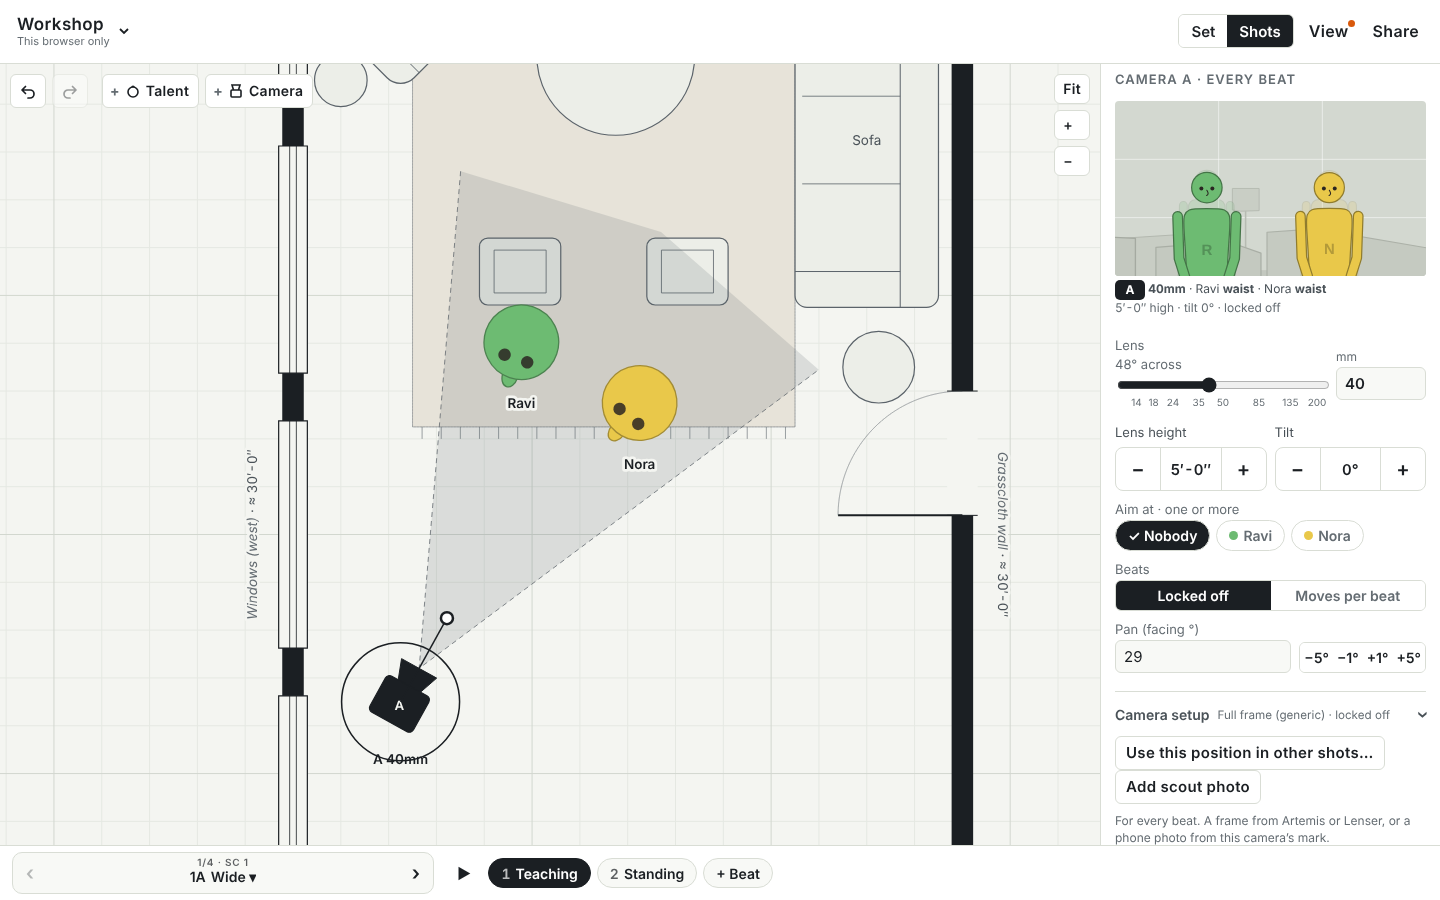
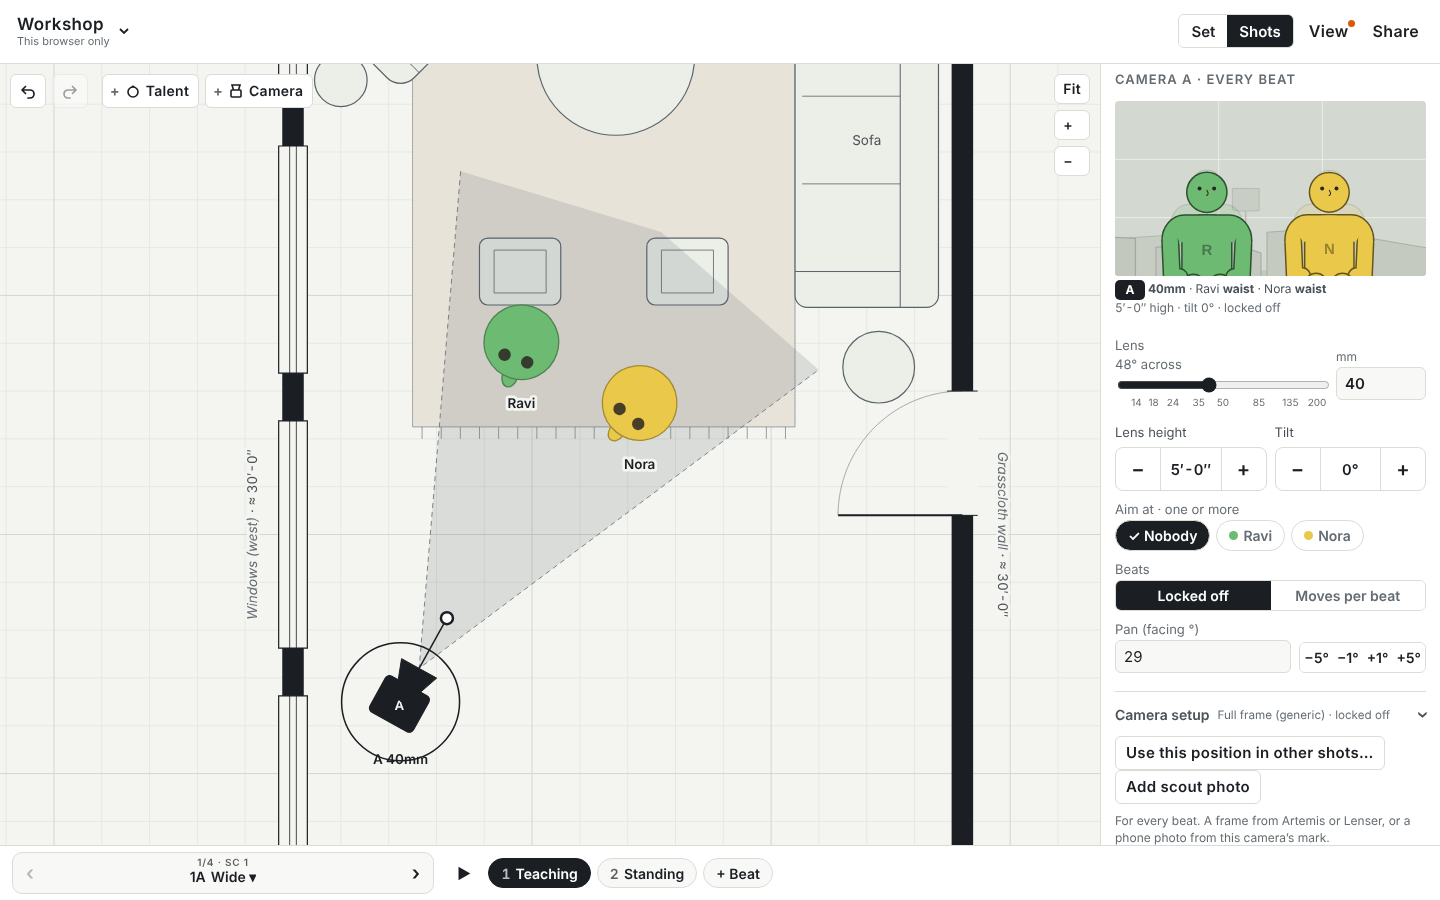
Pictogram figures only; social preview image
The rounded figure style is removed, so every plan draws the pictograms from the
AIGA/DOT symbol signs. README screenshots retaken. Adds docs/social-preview.png
(1280x640) for GitHub's social preview. The standalone reload test now waits
for the browser to commit storage.

Changed region(s): [[0.7812, 0.1867, 0.9688, 0.3111]]

diff --git a/index.html b/index.html
@@ -549,7 +549,7 @@ function normalize(sc){
     if(o.sq!==undefined){o.sq=num(o.sq,1);if(!SQUEEZES.includes(o.sq))delete o.sq}};
   sc.rig.forEach((c,i)=>{c.id=freshId(c.id);c.name=String(c.name||'ABCDEFGHIJKLMNOPQRSTUVWXYZ'[i]||'Cam').slice(0,40);c.color=safeColor(c.color,CAM_COLORS[i%CAM_COLORS.length]);fmtOK(c)});
   const arOK=o=>{if(o.ar===undefined)return;const v=typeof o.ar==='number'?o.ar.toFixed(2):String(o.ar);if(Object.hasOwn(ASPECTS,v))o.ar=v;else delete o.ar};
-  arOK(sc);sc.shots.forEach(arOK);if(sc.axisOn!==undefined)sc.axisOn=!!sc.axisOn;if(sc.fig!==undefined&&sc.fig!=='picto')delete sc.fig;
+  arOK(sc);sc.shots.forEach(arOK);if(sc.axisOn!==undefined)sc.axisOn=!!sc.axisOn;sc.fig='picto';
   sc.shots.forEach(x=>{if(x.axis===undefined)return;const v=String(x.axis);if(v==='off')x.axis='off';else{const pr=v.split('|');if(pr.length===2&&pr.every(y=>ID_OK.test(y))&&pr[0]!==pr[1])x.axis=v;else delete x.axis}});
   // v18–v20 kept the aspect ratio on each camera: the commonest becomes the scene's; a shot that differs keeps its own
   {const legacy=sc.items.filter(i=>i.kind==='cam'&&i.ar!==undefined);legacy.forEach(arOK);const ok=legacy.filter(i=>i.ar!==undefined);
@@ -937,7 +937,7 @@ function frameInfo(sc,cam,t,Wp,opt={}){
     const qd=Math.max(.01,Math.hypot(q.x-p.x,q.y-p.y)),du=[(q.x-p.x)/qd,(q.y-p.y)/qd],ru=[-du[1],du[0]];
     const fv=dv(q.r),front=-(fv[0]*du[0]+fv[1]*du[1]),side=fv[0]*ru[0]+fv[1]*ru[1],phi=Math.atan2(side,front),c=Math.abs(Math.cos(phi)),sn=Math.sin(phi);
     const ps=POSTURE[q.ps]?q.ps:'stand',P=POSTURE[ps],C=crownOf(ps),E=eyeOf(ps),seated=!!P.seat;
-    const col=o.c.color||'#888',picto=sc.fig==='picto',dk=shade(col,picto?.42:.62),ow=Math.max(picto?1.3:1.1,k*(picto?.034:.028));
+    const col=o.c.color||'#888',picto=true,dk=shade(col,picto?.42:.62),ow=Math.max(picto?1.3:1.1,k*(picto?.034:.028));
     let fb=col,fh=col;const lit=!ghost&&lightingOn(sc),terms=lit?lightTerms(sc,q,p).map(x=>({...x,I:x.I*expo})):[];if(lit&&!ghost&&!terms.some(x=>x.I>.06))o.dark=true;
     if(lit){const b1=`${gid}b${gi}`,h1=`${gid}h${gi++}`;defs+=gradDef(b1,terms,col,cx-.8*k,cx+.8*k)+gradDef(h1,terms,col,cx-.33*k,cx+.33*k);fb=`url(#${b1})`;fh=`url(#${h1})`}
     // person-local feet: r = to their right, f = forward. Screen x and nearness to camera follow from which way they face.
@@ -947,7 +947,7 @@ function frameInfo(sc,cam,t,Wp,opt={}){
     if(seated){const sy=Y(P.seat),gy=Y(0),sx=.62*k;
       g+=`<g stroke="#8b9096" stroke-width="${Math.max(1.2,.07*k)}" stroke-linecap="round" fill="none"><path d="M${cx-sx*.75} ${sy}L${cx-sx*.95} ${gy}M${cx+sx*.75} ${sy}L${cx+sx*.95} ${gy}M${cx-sx*.25} ${sy}L${cx-sx*.3} ${gy}M${cx+sx*.25} ${sy}L${cx+sx*.3} ${gy}"/>${P.foot?`<path d="M${cx-sx*.88} ${Y(P.foot)}H${cx+sx*.88}"/>`:''}</g><ellipse cx="${cx}" cy="${sy}" rx="${sx}" ry="${Math.max(2,.1*k)}" fill="#a3a8ad"/>`}
     // each limb is one group of capsules: outlined together, then filled together, so joints don't show
-    // two styles: the default rounded figure, outlined; or the DOT/AIGA pictogram (1974, public domain): flat parts, square-ended legs,
+    // the DOT/AIGA pictogram (1974, public domain): flat parts, square-ended legs,
     // arms hanging clear of the body from a broad shoulder yoke, a gap between the legs and below the head
     const groups={};const limb=(key,pts,w,lc)=>{(groups[key]=groups[key]||[]).push({pts,w,lc,arm:key.startsWith('arm')})};
     const sw2=ps==='walk'?Math.sin(q.wk??Math.PI/2):0,leg=22*RAD*sw2,arm=-20*RAD*sw2;
@@ -1973,10 +1973,9 @@ function layersSheet(){
   h+=`</div><h3>Layers</h3><div class="list">`;
   for(const L of LAYERS){const n=inShot(sc).filter(i=>layerOf(i)===L.id).length,st=ls[L.id]||{};
     h+=`<div class="item lyrow" style="cursor:default"><span class="${st.hidden?'mut':''}">${L.name}<span class="sub" style="margin-left:6px">${n}${st.hidden?' · hidden':st.locked?' · locked':''}</span></span><span style="margin-left:auto;display:flex;gap:4px;align-items:center"><button class="btn ghost lysel" data-ly="${L.id}" data-op="sel" ${n&&!st.hidden&&!st.locked?'':'disabled'}>Select</button><button class="btn icobtn" data-ly="${L.id}" data-op="hide" aria-pressed="${!!st.hidden}" aria-label="${st.hidden?'Show':'Hide'} ${L.name}" title="${st.hidden?'Show':'Hide'}">${st.hidden?EYEOFF:EYE}</button><button class="btn icobtn" data-ly="${L.id}" data-op="lock" aria-pressed="${!!st.locked}" aria-label="${st.locked?'Unlock':'Lock'} ${L.name}" title="${st.locked?'Unlock':'Lock'}">${LOCK(st.locked)}</button></span></div>`}
-  h+=`</div><h3>Figures</h3><div class="list"><div class="item" style="cursor:default"><div class="seg" style="flex:1"><button data-fig="round" aria-pressed="${sc.fig!=='picto'}">Rounded</button><button data-fig="picto" aria-pressed="${sc.fig==='picto'}">Pictogram</button></div></div></div>`;
+  h+=`</div>`;
   h+=`<p class="hint" style="padding:6px 16px 0">Select picks up a whole layer to move or turn as one piece. A locked layer can’t be grabbed, so you can work on top of it.</p>`;
   openSheet(h,e=>{const vw=e.target.closest('[data-vw]');if(vw){const k=vw.dataset.vw.slice(0,-1),on=vw.dataset.vw.endsWith('1');used('view.'+k);if(k==='frames'){if(S.showFrames!==on)$('#framesBtn').click()}else{const key={dims:'dims',snap:'snap',all:'allBeats',allshots:'allShots'}[k];S[key]=on}renderAll();layersSheet();return}
-    const fg=e.target.closest('[data-fig]');if(fg){pushHist();if(fg.dataset.fig==='picto')sc.fig='picto';else delete sc.fig;renderAll();save();layersSheet();return}
     const ax=e.target.closest('[data-axon],[data-axshot]');if(ax){pushHist();if(ax.dataset.axon)sc.axisOn=ax.dataset.axon==='1';else{const sh=shotOf(sc);if(ax.dataset.axshot==='auto')delete sh.axis;else sh.axis=ax.dataset.axshot}renderAll();save();layersSheet();return}
     const b=e.target.closest('[data-op]');if(!b||b.disabled)return;const ly=b.dataset.ly,op=b.dataset.op;
     if(op==='sel'){{const f=inShot(sc).find(i=>layerOf(i)===ly);if(f&&spaceLocked(f))setSpace(S.space==='set'?'shots':'set',true)}S.multi=inShot(sc).filter(i=>layerOf(i)===ly).map(i=>i.id);S.sel=null;S.sceneInsp=false;closeSheet();renderAll();return}

diff --git a/tests/test_r7.py b/tests/test_r7.py
@@ -182,22 +182,16 @@ def test_phone_long_warning_leaves_controls_reachable(open_app):
     assert b['height'] >= 120 and b['y'] + 120 <= 852, b
 
 
-def test_pictogram_figures_switch(open_app):
-    sc = scene()
-    sc['fig'] = 'picto'
-    app = open_app({'room': sc})
-    app.go(shot='s1')
-    svg = app.js("()=>{const P=window.__shotplans,sc=P.cur();return P.frameInfo(sc,sc.items.find(i=>i.id==='camA'),0,320).svg}")
-    rnd = app.js("()=>{const P=window.__shotplans,sc=P.cur();const f=sc.fig;delete sc.fig;const v=P.frameInfo(sc,sc.items.find(i=>i.id==='camA'),0,320).svg;sc.fig=f;return v}")
-    assert svg != rnd
+def test_pictogram_is_the_only_figure_style(open_app):
+    """the rounded style is gone: every plan draws pictograms, whatever it stored"""
+    sc = facing_scene()
+    sc['fig'] = 'round'
+    app = open_app({'s': sc})
+    assert app.scene()['fig'] == 'picto'
     app.page.click('#layersBtn')
-    app.page.click('#sheet [data-fig="round"]')
     app.wait(150)
-    assert 'fig' not in app.scene()
-    bad = scene()
-    bad['fig'] = '<x>'
-    app2 = open_app({'room': bad})
-    assert 'fig' not in app2.scene()
+    assert app.page.locator('[data-fig]').count() == 0
+    assert not app.errors, app.errors
 
 
 def test_pdf_with_axis_curve_and_pictograms(open_app):

diff --git a/tests/test_standalone.py b/tests/test_standalone.py
@@ -29,8 +29,8 @@ def test_runs_without_the_host(browser):
 def test_saves_in_the_browser_and_survives_a_reload(browser):
     ctx, page, errors = open_plain(browser, {'workshop_doc': json.loads(json.dumps(sp.WS))})
     page.evaluate("()=>{const P=window.__shotplans,sc=P.cur();sc.name='Renamed here';P.save(0)}")
-    page.wait_for_timeout(500)
-    page.evaluate("()=>sessionStorage.setItem('seeded','1')")
+    page.wait_for_function("()=>(localStorage.getItem('shotplans:workshop_doc')||'').includes('Renamed here')", timeout=5000)
+    page.wait_for_timeout(1500)  # Chromium commits localStorage to disk in batches; a reload straight after a write can read the old value
     page.reload()
     page.wait_for_timeout(900)
     assert page.evaluate("()=>window.__shotplans.cur().name") == 'Renamed here'

diff --git a/docs/FORMAT.md b/docs/FORMAT.md
@@ -8,7 +8,7 @@ The app repairs bad data on load without saying so, so if you generate plans wit
   - Write numbers as numbers, not strings.
   - Ids must match `[A-Za-z0-9_-]{1,40}` and be unique across the whole document (groups, shots, beats, cast, rig and items share one space). Colours are `#rrggbb`. Anything else is replaced on load.
   - Stamp `updatedAt` with the current time in ms. Also write `schemaVersion: 2`.
-- **Production** (one document). It holds `name`, `sensor` (`ff` or `s35`, used only for cameras with no body), `ar` (aspect for every shot: native, 1.33, 1.66, 1.78, 1.85, 2.00 or 2.39; default 1.78), `axisOn` (show the 180° line), `fig` (`picto` for pictogram figures; absent for rounded), `notes`, `estimated`, `layerState` (per layer `hidden`, `locked`; layer ids arch, furn, light, cast, note), `cast` (`id`, `name`, `color`), `rig` (the location's cameras: `id`, `name`, `color`, and optional `body`, `mode`, `sq`), `locs` (the location library: `id`, `name`, `notes`), `groups` (the script's scenes, in story order: each `id`, `locId`, optional `ownArch: true` when the scene has its own walls, and optional strings `num` (e.g. "1.5"), `name`, `ie` (INT, EXT or INT/EXT), `time`, `syn`, `intent`, `notes`), `shots` (each `id`, `name`, `grp` (its scene's id), optional `letter` (capitals, e.g. `C` or `AA`; overrides the automatic letter), `type`, `desc`, `tools`, `notes`, `ar`, `axis`: `off`, or `castId|castId`, absent for auto; and `beats` with `id` and `name`), and `items`.
+- **Production** (one document). It holds `name`, `sensor` (`ff` or `s35`, used only for cameras with no body), `ar` (aspect for every shot: native, 1.33, 1.66, 1.78, 1.85, 2.00 or 2.39; default 1.78), `axisOn` (show the 180° line), `fig` (always `picto`: figures are drawn from the AIGA/DOT pictograms), `notes`, `estimated`, `layerState` (per layer `hidden`, `locked`; layer ids arch, furn, light, cast, note), `cast` (`id`, `name`, `color`), `rig` (the location's cameras: `id`, `name`, `color`, and optional `body`, `mode`, `sq`), `locs` (the location library: `id`, `name`, `notes`), `groups` (the script's scenes, in story order: each `id`, `locId`, optional `ownArch: true` when the scene has its own walls, and optional strings `num` (e.g. "1.5"), `name`, `ie` (INT, EXT or INT/EXT), `time`, `syn`, `intent`, `notes`), `shots` (each `id`, `name`, `grp` (its scene's id), optional `letter` (capitals, e.g. `C` or `AA`; overrides the automatic letter), `type`, `desc`, `tools`, `notes`, `ar`, `axis`: `off`, or `castId|castId`, absent for auto; and `beats` with `id` and `name`), and `items`.
   - Keep `shots` in scene order; the app re-sorts them by `groups` on load. A shot with an unknown `grp` joins the scene of the shot before it; a document with no `groups` gets one scene holding every shot. A shot with no char or cam items is a shot with no plan yet.
   - **Who owns a set piece.** `wall`, `window`, `door` and `img` carry `loc` (a location id), or `grp` (a scene id) when that scene has `ownArch`. `furn`, `light`, `frame` and `text` carry `grp`: each scene has its own copies, so writing a piece for three scenes means three items. `char` and `cam` carry `shot` as before. A scene's `locId` decides which walls it sees.
   - A document from before v41 (no `locs`) is migrated on load: one location named after the document (or one per distinct `loc` text on the scenes), walls go to it, and the first scene keeps the furniture and lights while every other scene at that location gets copies with ids `<id>_<sceneId>`. Ids made during migration are deterministic so merges stay item by item. Write `locs`, `locId`, `loc` and `grp` explicitly rather than relying on migration.
